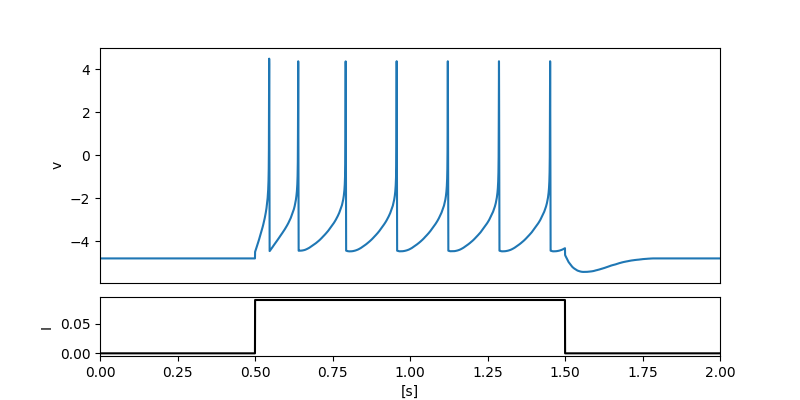
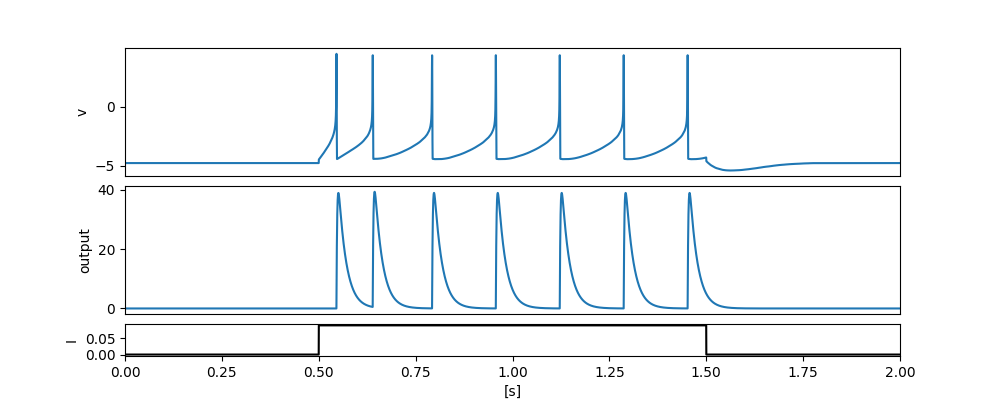
synapses後のアウトプット追加

diff --git a/demo.py b/demo.py
@@ -5,6 +5,7 @@ from matplotlib import gridspec
 from tqdm import tqdm
 import time
 import networkx as nx
+from src.Synapses import DoubleExponentialSynapse
 
 if __name__ == "__main__":
 
@@ -18,10 +19,14 @@ if __name__ == "__main__":
     # you can use RSexci, RSinhi, FS, LTS, IB, EB, PB, or Class2 mode
     N = 1000
     cell0=PQNModel(mode='RSexci', N = N)
+    # set a synapse
+    synapses_out = DoubleExponentialSynapse(N, dt=cell0.PARAM['dt'], td=2e-2, tr=2e-3)
 
+    #initialization
     # length of simulation [s]
     tmax=2
-
+    spike = np.zeros(N)
+    past_spike = np.zeros(N)
     # set the number of iterations
     number_of_iterations=int(tmax/cell0.PARAM['dt'])
 
@@ -31,26 +36,40 @@ if __name__ == "__main__":
 
     # run simulatiion
     v0= np.zeros((number_of_iterations, N))
-    for i in tqdm(range(number_of_iterations)):
+    output = np.zeros((number_of_iterations, N))
+    for i in range(number_of_iterations):
         cell0.update(I[i])
         v0[i] = (cell0.get_membrane_potential())
+        spike = np.where(v0[i] > 4, 1, 0)
+        output[i] = synapses_out(np.where(spike-past_spike > 0, 1, 0))
+        # tmp = np.where(spike-past_spike > 0, 1, 0)
+        # if(tmp[1] == 1):
+        #     print(f"Spike at iteration {i}, time {i * cell0.PARAM['dt']:.2f} s")
+        past_spike = spike
+    #print(output.shape)
 
-    print(v0.shape)
+
+
     end = time.time()
     print(f"Simulation time: {end - start:.2f} seconds")
 
     # plot simulation result
-    fig = plt.figure(figsize=(8,4))
-    spec = gridspec.GridSpec(ncols=1, nrows=2, figure=fig, hspace=0.1, height_ratios=[4, 1])
+    fig = plt.figure(figsize=(10,4))
+    spec = gridspec.GridSpec(ncols=1, nrows=3, figure=fig, hspace=0.1, height_ratios=[4, 4, 1])
     ax0 = fig.add_subplot(spec[0])
     ax1 = fig.add_subplot(spec[1])
+    ax2 = fig.add_subplot(spec[2])
     ax0.plot([i*cell0.PARAM['dt'] for i in range(0, number_of_iterations)], v0[:,2])
     ax0.set_xlim(0, tmax)
     ax0.set_ylabel("v")
     ax0.set_xticks([])
-    ax1.plot([i*cell0.PARAM['dt'] for i in range(0, number_of_iterations)], I, color="black")
+    ax1.plot([i*cell0.PARAM['dt'] for i in range(0, number_of_iterations)], output[:,2])
     ax1.set_xlim(0, tmax)
-    ax1.set_xlabel("[s]")
-    ax1.set_ylabel("I")
+    ax1.set_ylabel("output")
+    ax1.set_xticks([])
+    ax2.plot([i*cell0.PARAM['dt'] for i in range(0, number_of_iterations)], I, color="black")
+    ax2.set_xlim(0, tmax)
+    ax2.set_xlabel("[s]")
+    ax2.set_ylabel("I")
     plt.savefig("demo.png")
     plt.show()

diff --git a/src/Synapses.py b/src/Synapses.py
@@ -49,4 +49,3 @@ class DoubleExponentialSynapse:
         self.hr = hr
         
         return r
-
